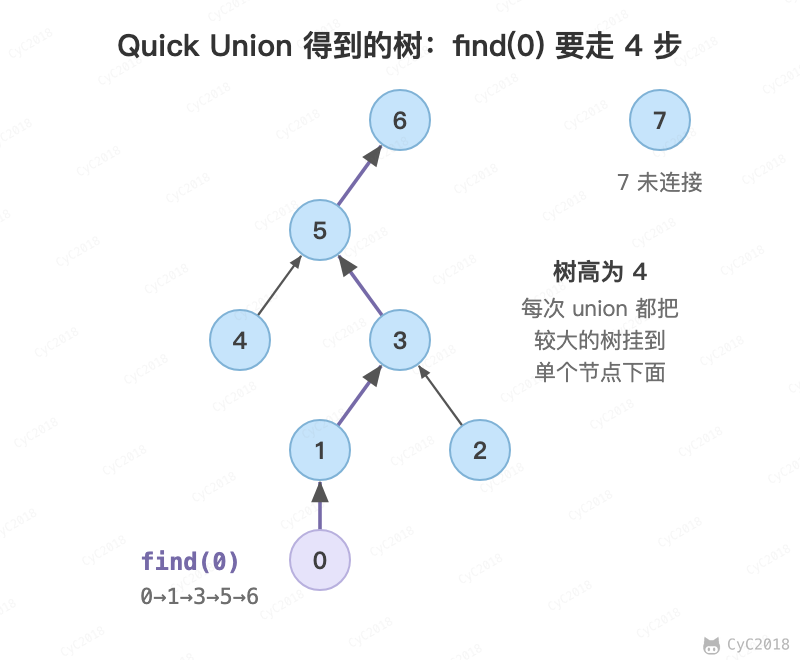
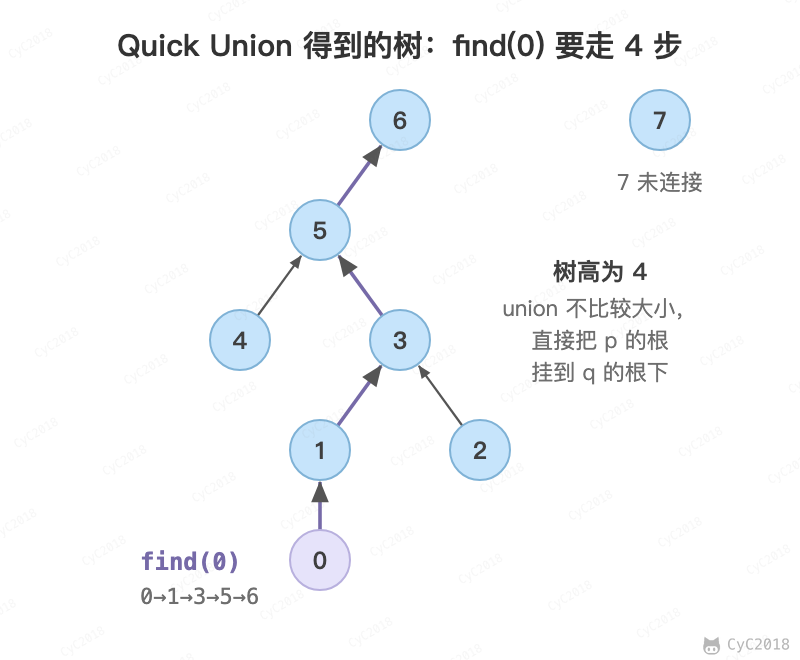
Update 算法 - 并查集.md
重新绘制 Quick Union 树结构配图；调整 Quick Union 与加权合并的原理说明，补充路径压缩实现代码及复杂度分析。

Changed region(s): [[0.625, 0.4545, 0.875, 0.5758]]

diff --git a/notes/算法 - 并查集.md b/notes/算法 - 并查集.md
@@ -13,7 +13,7 @@
 
 ## 前言
 
-用于解决动态连通性问题，能动态连接两个点，并且判断两个点是否连通。
+并查集（Union-Find）用于解决动态连通性问题，能动态连接两个点，并且判断两个点是否连通。
 
 <div align="center"> <img src="pics/uf-intro.png" width="600px"/> </div><br>
 
@@ -94,7 +94,7 @@ public class QuickFindUF extends UF {
 
 可以快速进行 union 操作，只需要修改一个节点的 id 值即可。
 
-但是 find 操作开销很大，因为同一个连通分量的节点 id 值不同，id 值只是用来指向另一个节点。因此需要一直向上查找操作，直到找到最上层的节点。
+这种方法把每个连通分量看成一棵树：id[p] 保存的是 p 的父节点，根节点的 id 等于它自身。同一个连通分量的节点 id 值不一定相同，但根节点相同，因此 find 需要沿着 id 一直向上查找，直到找到根节点，开销较大。
 
 <div align="center"> <img src="pics/uf-quick-union.png" width="520px"/> </div><br>
 
@@ -133,16 +133,16 @@ public class QuickUnionUF extends UF {
 
 ## 加权 Quick Union
 
-为了解决 quick-union 的树通常会很高的问题，加权 quick-union 在 union 操作时会让较小的树连接到较大的树上面。
+为了解决 Quick Union 的树通常会很高的问题，加权 Quick Union 在 union 操作时会让节点较少的树连接到节点较多的树上面。
 
-理论研究证明，加权 quick-union 算法构造的树深度最多不超过 logN。
+这样构造的树深度最多不超过 logN。这是因为一个节点的深度只在它所在的树连接到另一棵树上时加 1，而那棵树的节点数不少于它，合并后的树至少是原来的两倍大；N 个节点的树最多只能翻倍 logN 次。
 
 <div align="center"> <img src="pics/uf-weighted.png" width="760px"/> </div><br>
 
 ```java
 public class WeightedQuickUnionUF extends UF {
 
-    // 保存节点的数量信息
+    // 以该节点为根的树的节点数，只有根节点的值有意义
     private int[] sz;
 
 
@@ -189,6 +189,24 @@ public class WeightedQuickUnionUF extends UF {
 
 <div align="center"> <img src="pics/uf-path-compression.png" width="640px"/> </div><br>
 
+```java
+@Override
+public int find(int p) {
+    int root = p;
+    while (root != id[root]) {
+        root = id[root];
+    }
+    while (p != root) { // 把路径上的节点直接链接到根节点
+        int next = id[p];
+        id[p] = root;
+        p = next;
+    }
+    return root;
+}
+```
+
+这样处理后，一组 union 和 find 操作的均摊代价非常接近 1（与反阿克曼函数 α(N) 成正比，实际中 α(N) 不超过 4），但单次操作在最坏情况下仍与 logN 成正比。
+
 ## 比较
 
 | 算法 | union | find |
@@ -196,7 +214,7 @@ public class WeightedQuickUnionUF extends UF {
 | Quick Find | N | 1 |
 | Quick Union | 树高 | 树高 |
 | 加权 Quick Union | logN | logN |
-| 路径压缩的加权 Quick Union | 非常接近 1 | 非常接近 1 |
+| 路径压缩的加权 Quick Union | 均摊非常接近 1 | 均摊非常接近 1 |
 
 ## 参考资料
 
